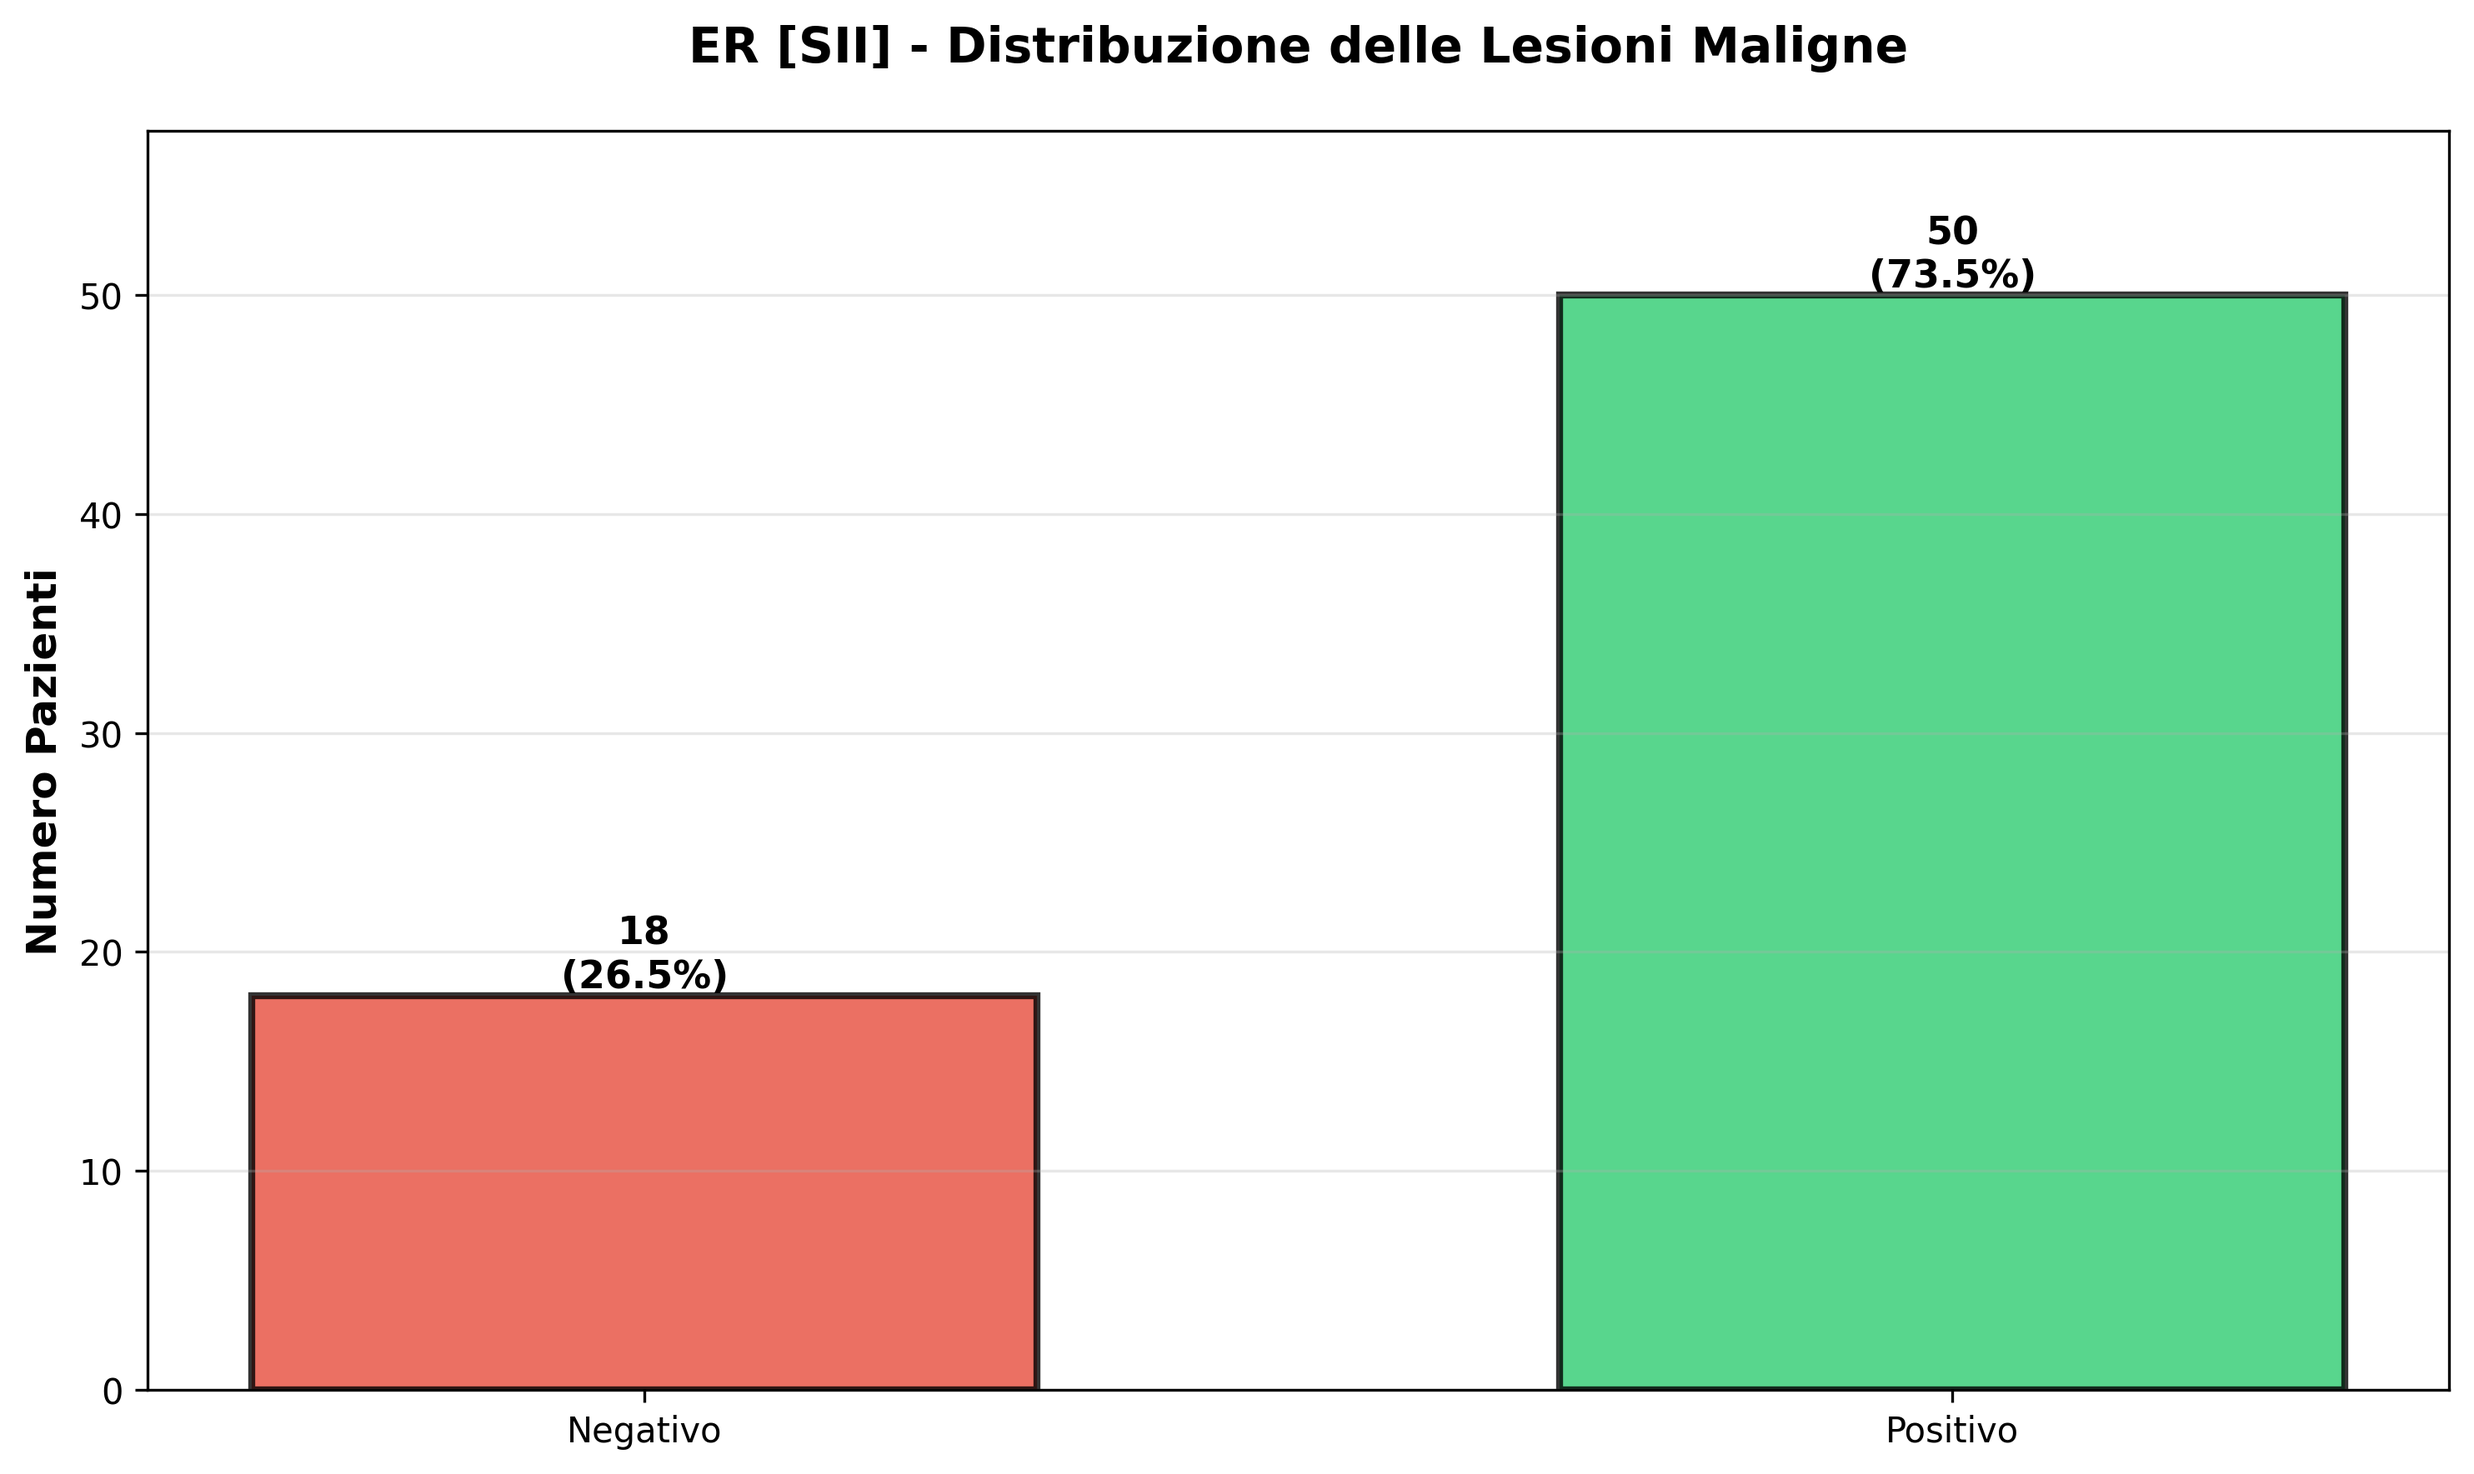
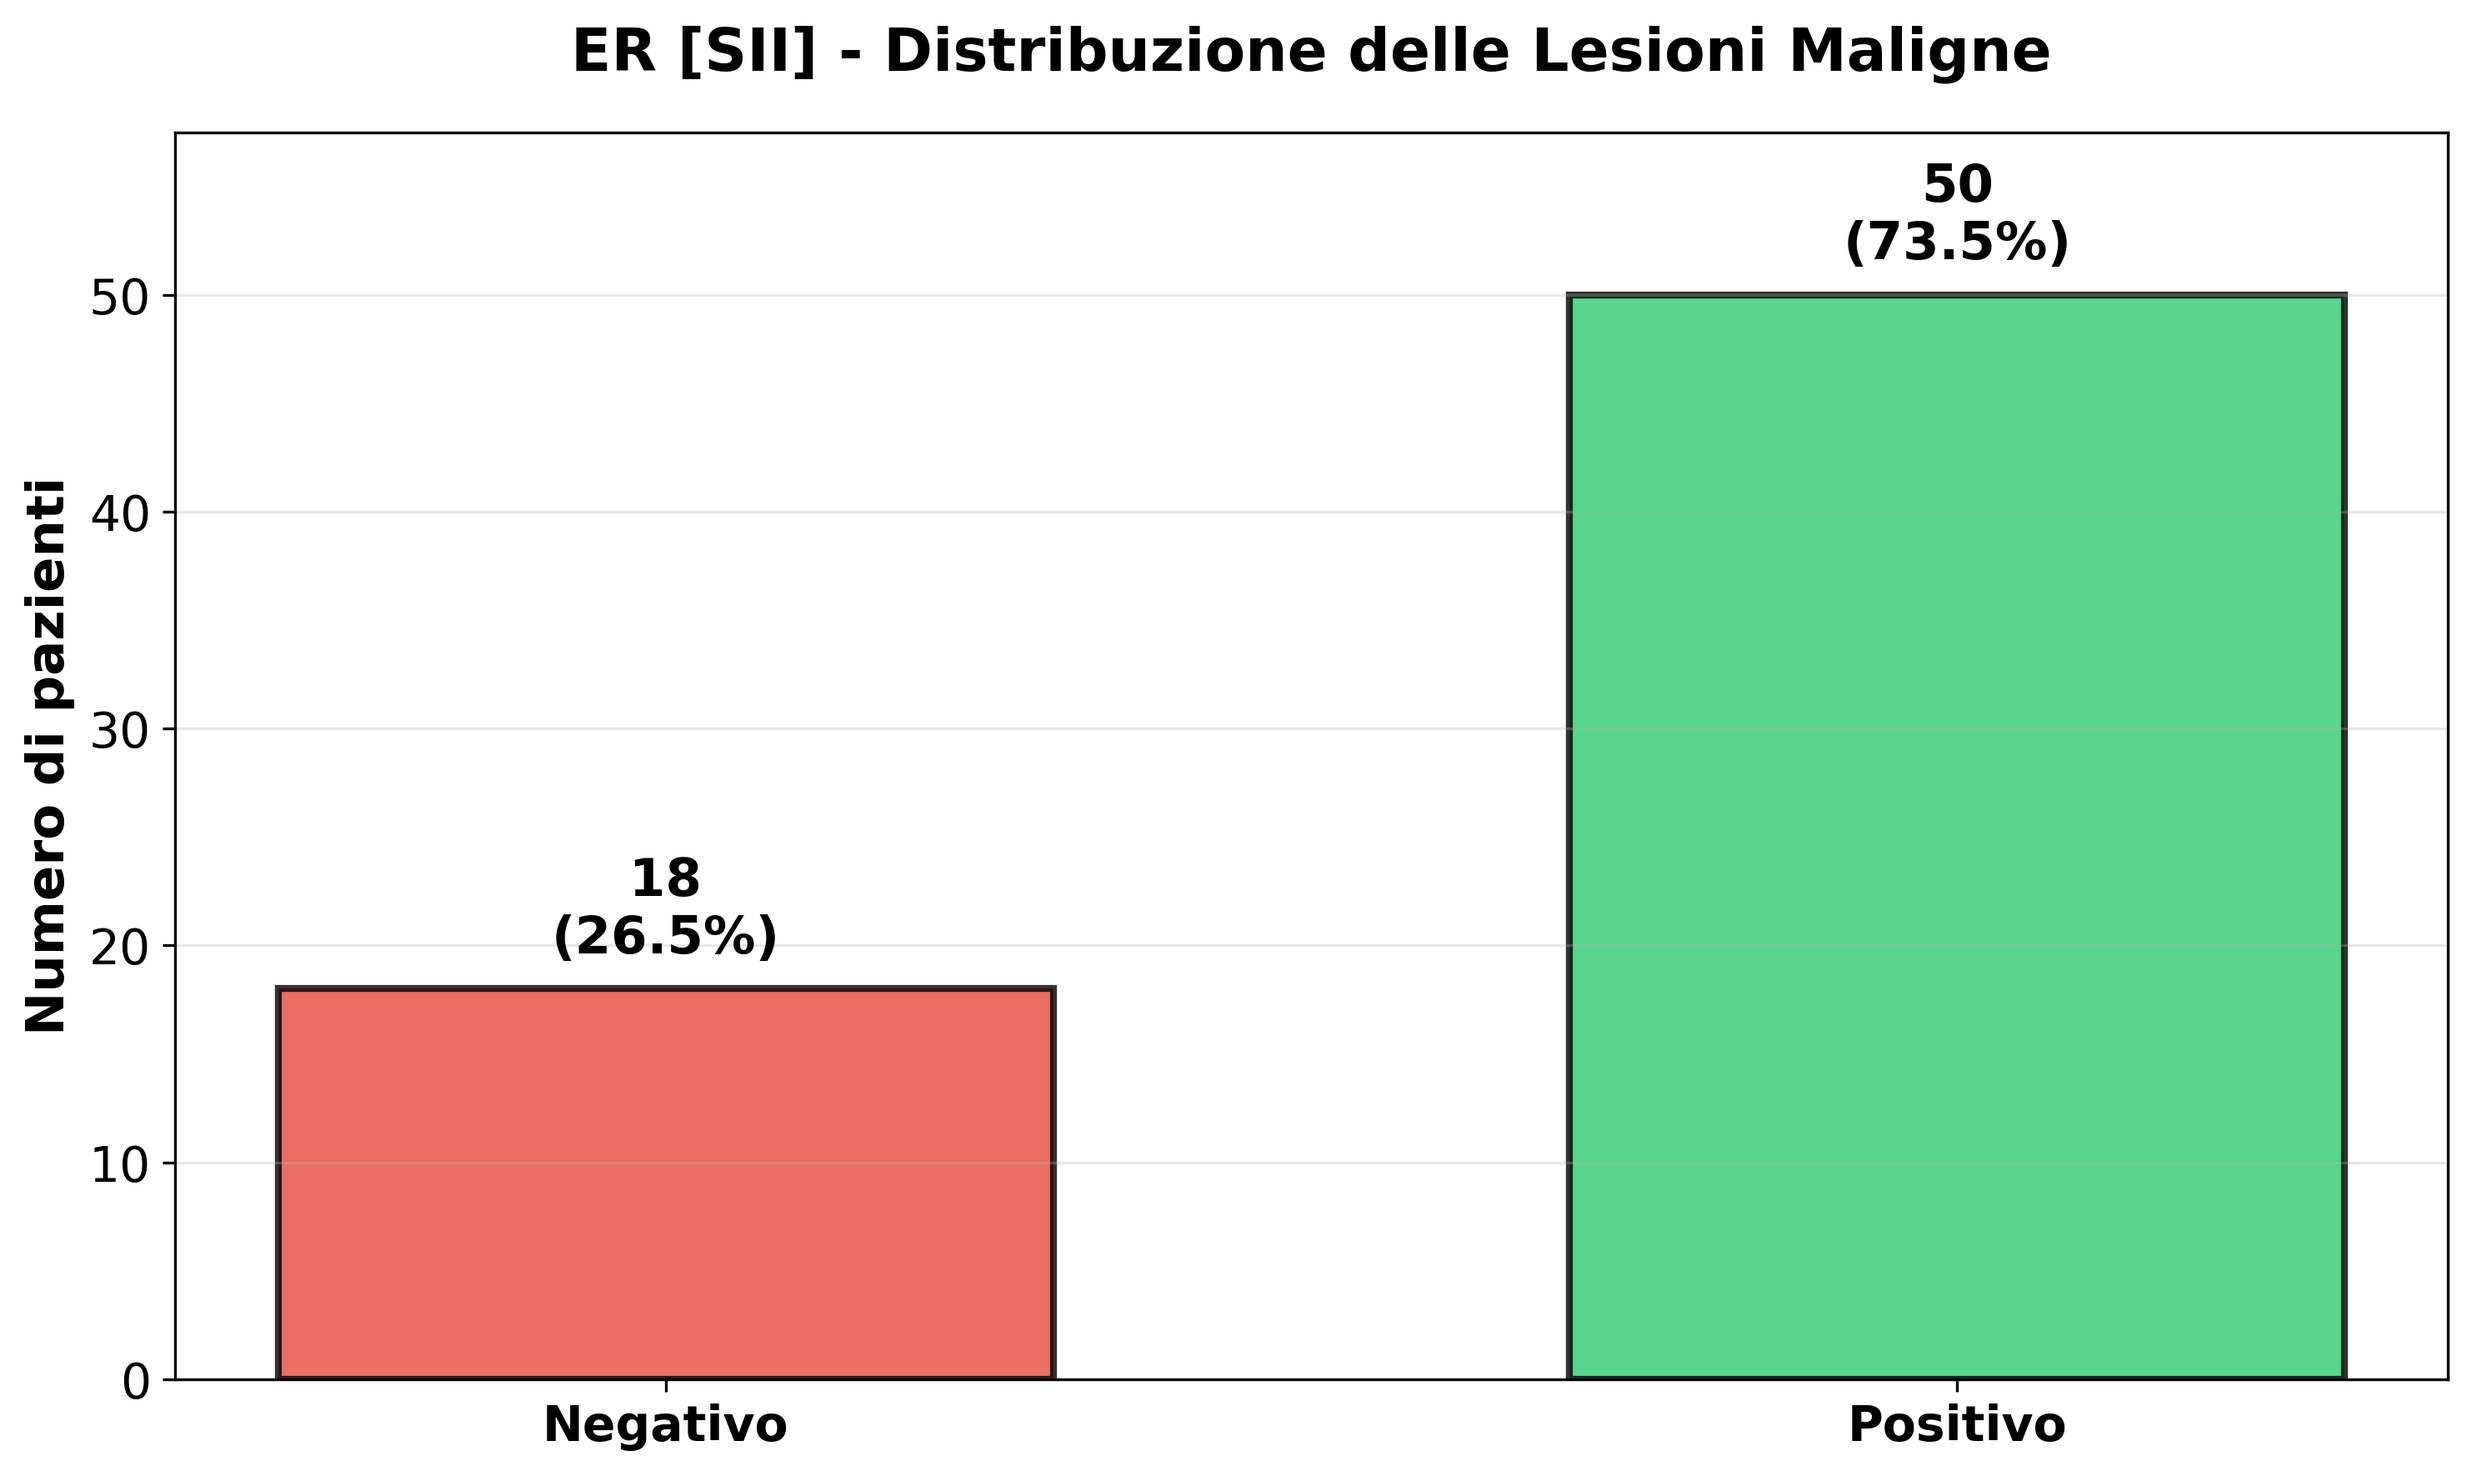
fixed

diff --git a/src/graphs/GraficoBiomarcatori.py b/src/graphs/GraficoBiomarcatori.py
@@ -11,7 +11,7 @@ init(autoreset=True)
 
 
 # Percorsi
-CLEANED_FILE = Path('dataset/cleaned/medsam_dynamic.csv')
+CLEANED_FILE = Path('dataset/cleaned/ambl_lesions.csv')
 OUTPUT_DIR = Path('report/report_biomarcatori/istogrammi')
 
 
@@ -30,19 +30,6 @@ BIOMARCATORI_CONFIG = {
     'HER2 [SII]': {
         'labels': {0: 'Negativo', 1: 'Positivo'},
         'colors': ['#e74c3c', '#2ecc71']
-    },
-    'GRADE': {
-        'labels': {1: 'GRADE 1', 1.5: 'GRADE 1.5 (1 to 2)', 2: 'GRADE 2', 2.5:'GRADE 2.5 (2 to 3)',3: 'GRADE 3'}, 
-        'colors': ['#2ecc71', "#95a0e1", '#f39c12', "#9d3ce7", '#e74c3c']  
-    },
-    'isTN': {
-        'labels': {0: 'Non Triplo-Negativo', 1: 'Triplo-Negativo'},
-        'colors': ['#3498db', '#e74c3c']
-    },
-    'KI67 [%]': {
-        'bins': [0, 14, 30, 100],
-        'labels': ['Basso (<14%)', 'Medio (14-30%)', 'Alto (>30%)'],
-        'colors': ['#2ecc71', '#f39c12', '#e74c3c']
     }
 }
 
@@ -52,78 +39,94 @@ BIOMARCATORI_CONFIG = {
 
 def plot_biomarkers(cleaned_file, output_dir):
 
-
-    # Vado a leggere il csv pulito
+    # Leggo il csv pulito
     df_after = pd.read_csv(cleaned_file)
-
 
     print(Fore.YELLOW + f"\nLesioni maligne dopo pulizia: {len(df_after)}")
     print(Fore.BLUE + "\n" + "="*70)
     print(Fore.BLUE + "GENERAZIONE GRAFICI DISTRIBUZIONE (SOLO LESIONI MALIGNE)")
     print(Fore.BLUE + "="*70 + "\n")
 
-
     for bio, config in BIOMARCATORI_CONFIG.items():
         data = pd.to_numeric(df_after[bio], errors='coerce')
-        
-        # Rimuovi valori mancanti
         data = data.dropna()
-    
+
         # Creo figura
         fig, ax = plt.subplots(figsize=(10, 6))
-        
-        # Gestione per Ki-67
-        if bio == 'KI67 [%]':
-            # Discretizza in bins
-            data_binned = pd.cut(data, bins=config['bins'], labels=config['labels'], include_lowest=True)
-            value_counts = data_binned.value_counts().sort_index()
-            categorie = config['labels']
-            valori = [value_counts.get(cat, 0) for cat in categorie]
-            colori = config['colors']
-        else:
-            if bio in ['ER [SII]', 'PR [SII]', 'HER2 [SII]']:
-                # Converti tutto ≥1 in Positivo
-                negativo = (data == 0.0).sum()
-                positivo = (data > 0.0).sum()
-                categorie = ['Negativo', 'Positivo']
-                valori = [negativo, positivo]
-                colori = config['colors']
-            else:
-                # Per GRADE e isTN uso la logica normale
-                value_counts = data.value_counts().sort_index()
-                # Ottengo tutti i valori presenti nei dati che hanno una label definita
-                categorie = [config['labels'][val] for val in sorted(config['labels'].keys()) if val in value_counts.index]
-                valori = [value_counts[val] for val in sorted(config['labels'].keys()) if val in value_counts.index]
-                colori = [config['colors'][i] for i, val in enumerate(sorted(config['labels'].keys())) if val in value_counts.index]
-        
-        # Plot
-        bars = ax.bar(categorie, valori, color=colori, alpha=0.8, edgecolor='black', linewidth=2, width=0.6)
-        
-        ax.set_ylabel('Numero Pazienti', fontsize=12, fontweight='bold')
-        ax.set_title(f'{bio} - Distribuzione delle Lesioni Maligne', fontsize=14, fontweight='bold', pad=20)
+
+        # ER, PR, HER2 → binario
+        negativo = (data == 0.0).sum()
+        positivo = (data > 0.0).sum()
+        categorie = ['Negativo', 'Positivo']
+        valori = [negativo, positivo]
+        colori = config['colors']
+
+        # Plot barre
+        bars = ax.bar(
+            categorie,
+            valori,
+            color=colori,
+            alpha=0.8,
+            edgecolor='black',
+            linewidth=2,
+            width=0.6
+        )
+
+        # Titolo e assi
+        ax.set_title(
+            f'{bio} - Distribuzione delle Lesioni Maligne',
+            fontsize=17,
+            fontweight='bold',
+            pad=18
+        )
+        ax.set_ylabel(
+            'Numero di pazienti',
+            fontsize=15,
+            fontweight='bold'
+        )
+
+        # Griglia
         ax.grid(alpha=0.3, axis='y')
-        
-        # Aggiungo spazio per non far tagliare la riga del bordo col numero
-        y_max = max(valori) * 1.15 
+
+        # Limite asse Y
+        y_max = max(valori) * 1.15
         ax.set_ylim(0, y_max)
 
+        # Tick assi
+        ax.tick_params(axis='x', labelsize=14)
+        ax.tick_params(axis='y', labelsize=14)
 
-        # Etichette sopra le barre
+        for label in ax.get_xticklabels():
+            label.set_fontweight('bold')
+
+        # Etichette sopra le barre (valore + percentuale)
         for bar, val in zip(bars, valori):
             height = bar.get_height()
             pct = (val / len(data) * 100) if len(data) > 0 else 0
-            ax.text(bar.get_x() + bar.get_width()/2., height, f'{val}\n({pct:.1f}%)', ha='center', va='bottom', fontsize=11, fontweight='bold')
-        
+            offset = y_max * 0.02  # ~2% dell'altezza totale
+
+            ax.text(
+                bar.get_x() + bar.get_width() / 2,
+                height + offset,
+                f'{val}\n({pct:.1f}%)',
+                ha='center',
+                va='bottom',
+                fontsize=15,
+                fontweight='bold'
+            )
+
+
         plt.tight_layout()
-        
-        # Salva
+
+        # Salvataggio
         filename = f'{bio.replace(" ", "_").replace("[", "").replace("]", "")}_distribuzione.png'
         output_path = output_dir / filename
         plt.savefig(output_path, dpi=300, bbox_inches='tight')
         plt.close()
-        
+
         print(Fore.GREEN + f" Grafico creato: {filename}")
         print(Fore.CYAN + f"  Distribuzione: {dict(zip(categorie, valori))}")
+
 
 
 
